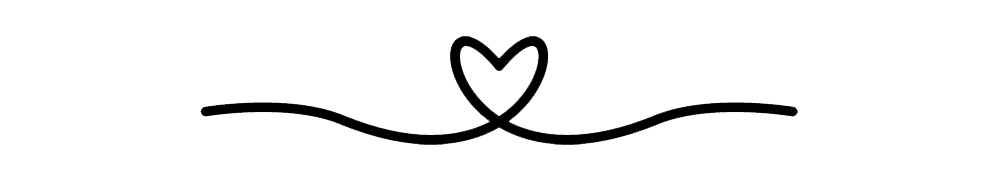
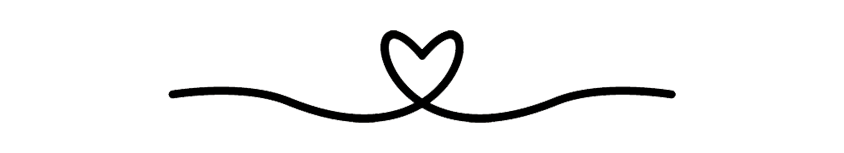
update rsvp section

diff --git a/src/components/content/Rsvp.tsx b/src/components/content/Rsvp.tsx
@@ -1,90 +1,71 @@
-import { MEMPELAI_PRIA, MEMPELAI_WANITA } from "../../lib/constants";
+import { CopyToClipboard } from "react-copy-to-clipboard";
+
 export default function Rsvp() {
   return (
-    <section
-      className="section-dark contact"
-      id="rsvp"
-    >
-      <div className="container">
-        <div className="columns is-multiline">
-          <div className="column is-12 prolog">
-            <h1
-              className="title has-text-centered section-title"
-              data-aos="fade-up"
-              data-aos-easing="linear"
-            >
-              Konfirmasi Kehadiran
-            </h1>
-          </div>
-          <div
-            className="column is-12 prolog has-text-centered"
-            data-aos="fade-up"
-            data-aos-easing="linear"
-          >
-            <p className="h2 subtitle">
-              Merupakan suatu kehormatan dan kebahagiaan bagi kami apabila
-              Bapak/Ibu/Saudara/Saudari berkenan hadir memberikan doa restu.
-              Jika bisa hadir kami tunggu konfirmasinya, Informasi: Di meja
-              penerima tamu akan kami sediakan hand sanitizer dan pemeriksaan
-              suhu tubuh. Jika tidak memungkinkan untuk hadir di pernikahan
-              kami,tidak mengapa, semoga bisa berjumpa di lain kesempatan Stay
-              safe & jaga kesehatan ya :)
-            </p>
+    <section className="text-center flex-col flex gap-4">
+      <div className="my-8 flex flex-col gap-8 items-center">
+        <h2 className="text-6xl capitalize">Share Love</h2>
+        <p className="font-semibold md:w-1/2 lg:w-2/5 sm:w-4/5">
+          Doa & restu anda di pernikahan kami tentunya sangat berarti. Namun
+          jika anda ingin memberi lebih, kami dengan senang hati menerimanya dan
+          akan semakin melengkapi kebahagiaan kami.
+        </p>
+        <div className="lg:max-w-48 max-w-20 md:max-w-24">
+          <img
+            src="assets/icons/gift.png"
+            alt=""
+            draggable="false"
+          />
+        </div>
+        <div className="flex flex-col items-center">
+          <p className="font-semibold text2">BCA - 6395468069</p>
+          <p className="font-semibold">Syafira Nurhanifa Fauziah</p>
 
-            <a
-              href={`https://api.whatsapp.com/send?phone=628xxxxxxxxxx&text=Halo%20${MEMPELAI_PRIA},%20saya%20akan%20datang%20di%20acara%20pernikahan&source=&data=`}
-              className="button btn-whatsapp"
-              target="_blank"
-              data-aos="zoom-in"
-            >
-              <i className="fab fa-whatsapp"></i>
-              &nbsp;&nbsp; Kabari {MEMPELAI_PRIA}
-            </a>
-
-            <a
-              href={`https://api.whatsapp.com/send?phone=628xxxxxxxxxx&text=Halo%20${MEMPELAI_WANITA},%20saya%20akan%20datang%20di%20acara%20pernikahan&source=&data=`}
-              className="button btn-whatsapp"
-              target="_blank"
-              data-aos="zoom-in"
-            >
-              <i className="fab fa-whatsapp"></i>
-              &nbsp;&nbsp;Kabari {MEMPELAI_WANITA}
-            </a>
-
-            <div
-              data-aos="fade-up"
-              data-aos-easing="linear"
-            >
+          <CopyToClipboard text={"6395468069"}>
+            <div className="flex items-center gap-2 text-xl">
               <img
-                src="image/divider-leaves.png"
-                className="divider has-text-centered"
-                alt="~~~"
+                src="assets/icons/copy.png"
+                alt=""
+                className="w-4 md:w-6"
               />
+              <span>Salin Nomor</span>
             </div>
-            <div className="space40px"></div>
-            <p
-              className="h2 subtitle"
-              data-aos="fade-up"
-              data-aos-easing="linear"
-            >
-              <span>Kami yang berbahagia,</span>
-              {/* <br> */}
-              <a
-                className="instagram"
-                href="https://instagram.com/cewe"
-                target="_blank"
-              >
-                <i className="fab fa-instagram"></i> <span>@si cewe</span>
-              </a>
-              <a
-                className="instagram"
-                href="https://instagram.com/laki"
-                target="_blank"
-              >
-                <i className="fab fa-instagram"></i> <span>@si laki</span>
-              </a>
-            </p>
-          </div>
+          </CopyToClipboard>
+        </div>
+
+        <div className="flex flex-col items-center">
+          <p className="font-semibold">BCA - 6395468077</p>
+          <p className="font-semibold">Muhammad Rifky Andreawan</p>
+
+          <CopyToClipboard text={"6395468077"}>
+            <div className="flex items-center gap-2 text-xl">
+              <img
+                src="assets/icons/copy.png"
+                alt=""
+                className="w-4 md:w-6"
+              />
+              <span>Salin Nomor</span>
+            </div>
+          </CopyToClipboard>
+        </div>
+      </div>
+
+      <div className="my-8 flex flex-col gap-8 items-center">
+        <h2 className="text-6xl capitalize">Send Gift</h2>
+        <div className="lg:max-w-48 max-w-20 md:max-w-24">
+          <img
+            src="assets/icons/house.png"
+            alt=""
+            draggable="false"
+          />
+        </div>
+
+        <div className="md:w-1/2 lg:w-2/5 sm:w-4/5 font-bold ">
+          <p className="mb-4">
+            Jl. Sindangkarsa No.199 rt03/010 (Gg. Haji Jamal) Kel. Sukamaju
+            Baru, Kota Depok, Tapos, Jawa Barat, 16455
+          </p>
+          <p>Nama Penerima: Syafira / Fira</p>
         </div>
       </div>
     </section>

diff --git a/src/components/content/Time.tsx b/src/components/content/Time.tsx
@@ -13,7 +13,7 @@ function CountdownCard({
 }) {
   return (
     <div
-      className={`text-2xl font-semibold text-center w-full max-w-28 p-4 bg-primary rounded-3xl ${className}`}
+      className={`text-4xl font-semibold text-center w-full max-w-28 p-4 bg-primary rounded-3xl ${className}`}
     >
       <p>{("00" + countdown).slice(-2)}</p>
       <p>{text}</p>
@@ -27,8 +27,8 @@ export default function Time({ day, hour, min, sec }: TimePropsType) {
       className="text-center flex items-center flex-col gap-4"
       id="Waktu"
     >
-      <h2 className="capitalize text-3xl">save the date</h2>
-      <h2 className="capitalize text-5xl">our special day</h2>
+      <h2 className="capitalize text-5xl font-semibold">save the date</h2>
+      <h2 className="capitalize text-7xl font-semibold">our special day</h2>
 
       <div className="grid max-w-96 w-full mx-auto justify-items-center my-8 grid-cols-1 sm:grid-cols-2 md:grid-cols-3 gap-4 ">
         <CountdownCard
@@ -53,7 +53,7 @@ export default function Time({ day, hour, min, sec }: TimePropsType) {
       </div>
 
       <div className="flex flex-col gap-4 items-center font-semibold">
-        <p className="text-4xl">
+        <p className="text-5xl">
           {DATE.toLocaleString("id", { weekday: "long" })},{" "}
           {DATE.toLocaleString("id", {
             day: "2-digit",
@@ -64,17 +64,17 @@ export default function Time({ day, hour, min, sec }: TimePropsType) {
             .join(" ")}
         </p>
 
-        <blockquote className="text-center md:w-3/4 lg:w-3/5">
+        <blockquote className="text-center space-y-2   text-2xl">
           <p>
             “Once in awhile, right in the middle of an ordinary life, love gives
             us a fairy tale.”
           </p>
-          <p>Unknown</p>
+          <p>- Unknown</p>
         </blockquote>
         <p></p>
       </div>
 
-      <Divider />
+      <Divider imageUrl="assets/images/divider-love.png" />
 
       <div className="flex flex-col gap-10">
         <DateGroup
@@ -120,9 +120,9 @@ function DateGroup({
   end?: number;
 }) {
   return (
-    <div className="container flex flex-col gap-2">
-      <p className="font-semibold text-2xl capitalize">{title}</p>
-      <p className="text-xl">
+    <div className=" flex flex-col gap-2 text-2xl">
+      <p className="font-bold capitalize text-4xl font-">{title}</p>
+      <p className="">
         {DATE.toLocaleString("id", { weekday: "long" })},{" "}
         {DATE.toLocaleString("id", {
           day: "2-digit",
@@ -132,7 +132,7 @@ function DateGroup({
           .split("/")
           .join(".")}
       </p>
-      <p className="text-xl">
+      <p className="">
         <span>Pukul </span>
         {new Date(DATE.getTime() + start * 60 * 60 * 1000).toLocaleString(
           "id",

diff --git a/src/components/content/About.tsx b/src/components/content/About.tsx
@@ -26,19 +26,19 @@ export default function About() {
   ];
 
   return (
-    <section className="container text-center flex flex-col gap-8">
-      <h2 className="capitalize text-4xl">Our Love story</h2>
+    <section className=" text-center flex flex-col gap-8">
+      <h2 className="capitalize text-6xl font-bold">Our Love story</h2>
 
       <div className="lg:w-3/4 flex flex-col gap-12 mx-auto">
         {TIMELINE_DATA.map((data, index) => (
           <div
-            className="flex"
+            className="flex max-md:flex-col"
             key={index}
           >
-            <div className="basis-1/5 text-xl font-semibold shrink-0">
+            <div className="basis-1/6 text-4xl font-semibold shrink-0">
               {data.date}
             </div>
-            <div className="text-lg">{data.text}</div>
+            <div className="text-3xl">{data.text}</div>
           </div>
         ))}
       </div>

diff --git a/src/components/Hero.tsx b/src/components/Hero.tsx
@@ -6,7 +6,7 @@ import MobileNav from "./MobileNav";
 export default function Hero({ day, hour, min, sec }: TimePropsType) {
   return (
     <>
-      <section className="text-white shadow-lg bg-fixed text-xl hero filter bg-primary ">
+      <div className="text-white shadow-lg bg-fixed text-xl hero filter bg-primary ">
         {/*  Begin Mobile Nav  */}
         <MobileNav />
         {/*  End Mobile Nav  */}
@@ -22,7 +22,7 @@ export default function Hero({ day, hour, min, sec }: TimePropsType) {
 
         {/* //  Begin Hero Menu  */}
         {/* //  End Hero Menu  */}
-      </section>
+      </div>
       <HeroFoot />
     </>
   );

diff --git a/src/components/content/Location.tsx b/src/components/content/Location.tsx
@@ -1,12 +1,12 @@
 export default function Location() {
   return (
     <section
-      className="container text-center flex items-center flex-col gap-4 mt-10"
+      className="text-center flex items-center flex-col gap-4 mt-10"
       id="lokasi"
     >
       <div className="container flex flex-col gap-2">
-        <p className="font-semibold text-2xl capitalize">Seetitik Kopi</p>
-        <p className="text-xl">
+        <p className="font-semibold text-4xl capitalize">Seetitik Kopi</p>
+        <p className="">
           Jl. Setu Baru No.1, Sukmajaya, Kec. Sukmajaya, Kota Depok, Jawa Barat
           16412
         </p>

diff --git a/src/components/content/Greeting.tsx b/src/components/content/Greeting.tsx
@@ -6,7 +6,7 @@ import Divider from "../Divider";
 
 export default function Greeting() {
   return (
-    <section className="flex container text-center flex-col gap-12 justify-center mt-24 mb-12 items-center ">
+    <section className="flex text-center flex-col gap-12 justify-center mt-20 mb-12 items-center ">
       <div
         data-aos="fade-up"
         data-aos-easing="linear"

diff --git a/src/index.css b/src/index.css
@@ -2,9 +2,15 @@
 @tailwind base;
 @tailwind components;
 @tailwind utilities;
+
 body {
-  @apply font-gaegu bg-secondary;
+  @apply font-gaegu bg-secondary text-2xl;
 }
+
+section {
+  @apply container;
+}
+
 .hero {
   background: linear-gradient(hsla(32, 30%, 10%, 0.5), hsla(32, 30%, 10%, 0.5)),
     rgba(0, 0, 0, 0.25) url("/assets/images/header-bg.png") no-repeat;

diff --git a/src/components/HeroFoot.tsx b/src/components/HeroFoot.tsx
@@ -37,7 +37,7 @@ export default function HeroFoot() {
             key={index}
             className={`${
               index === 0 ? "border-b-2" : ""
-            } hover:border-b-2 border-primary capitalize`}
+            } hover:border-b-2 border-primary uppercase text-2xl  `}
           >
             <a href={item.url}>{item.name}</a>
           </li>

diff --git a/src/components/Divider.tsx b/src/components/Divider.tsx
@@ -7,7 +7,7 @@ export default function Divider({
     <div
       data-aos="fade-up"
       data-aos-easing="linear"
-      className="max-w-lg mx-auto"
+      className="max-w-lg container my-8 mx-auto"
     >
       <img
         draggable="false"
